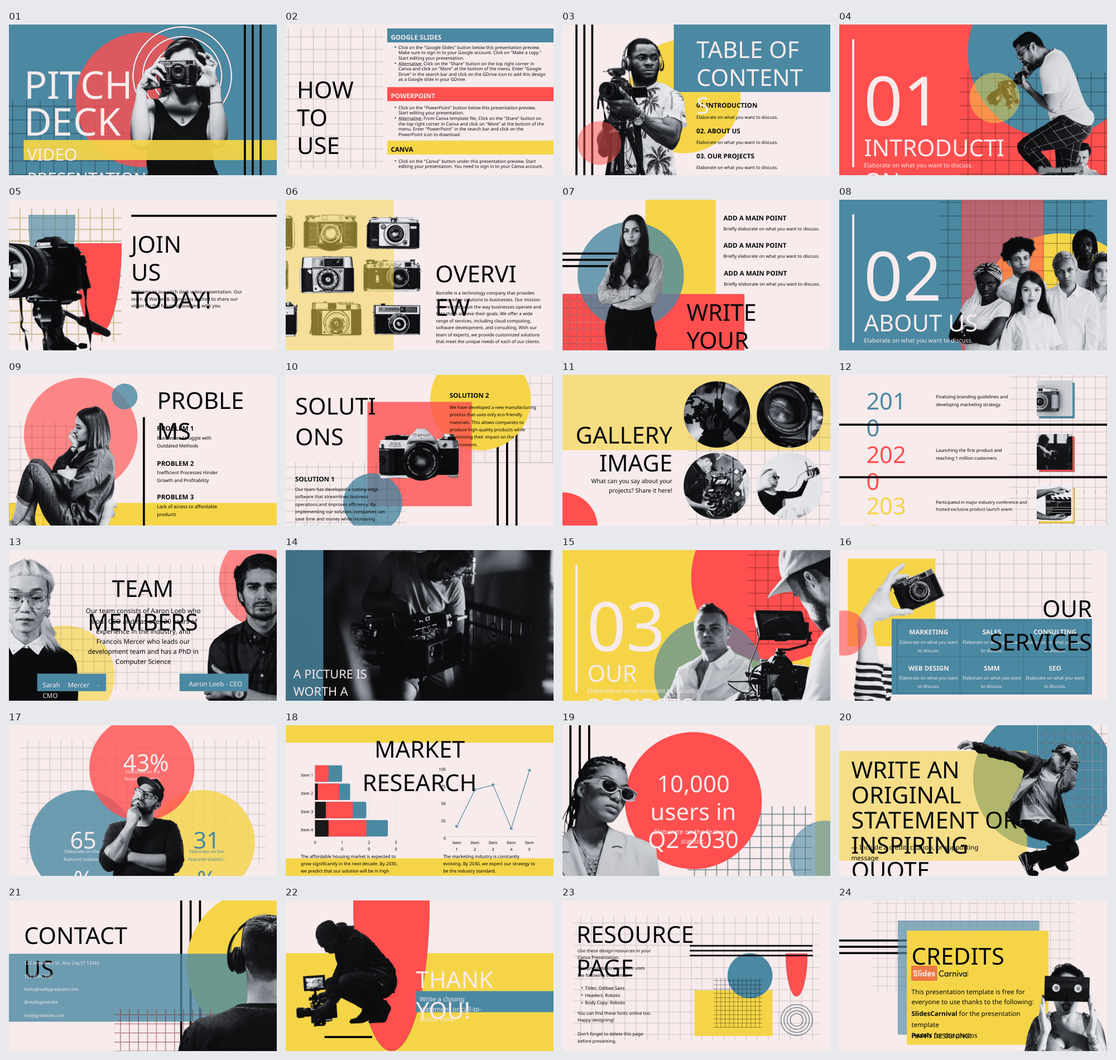
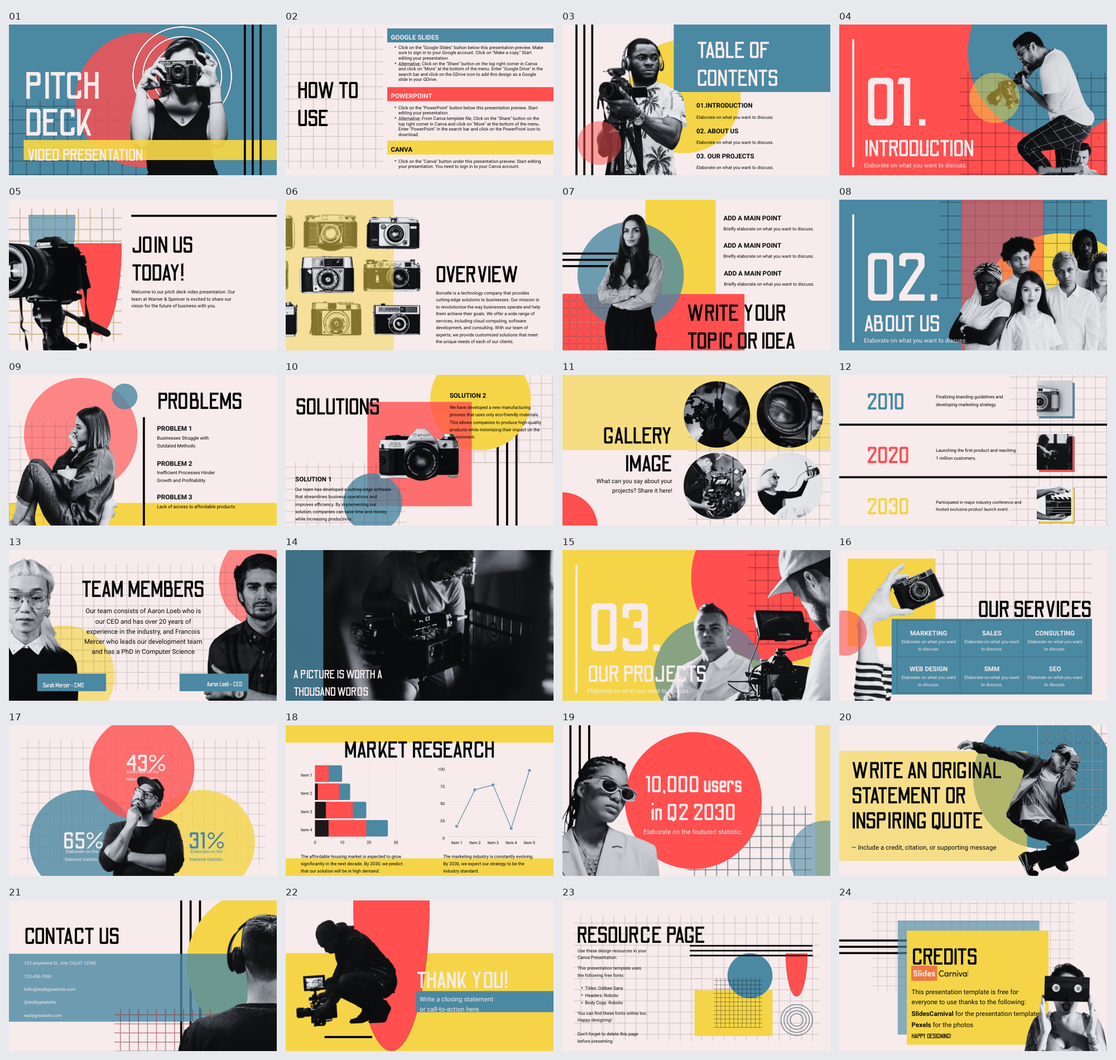
Compare font-corrected human slides with Codex content designs

diff --git a/SlideSkeleton/index.html b/SlideSkeleton/index.html
@@ -3,7 +3,7 @@
 <head>
 <meta charset="utf-8">
 <meta name="viewport" content="width=device-width, initial-scale=1">
-<title>Slide Benchmark · Human 原图与骨架 × AI 骨架</title>
+<title>Slide Benchmark · Human 与 AI 图文设计对比</title>
 <style>
 :root{color-scheme:light;--ink:#202523;--muted:#808783;--line:#e7eae8;--green:#44735c}
 *{box-sizing:border-box}body{margin:0;background:#f4f5f4;color:var(--ink);font:14px/1.5 -apple-system,BlinkMacSystemFont,"Segoe UI","Noto Sans CJK SC",sans-serif}
@@ -26,18 +26,18 @@ dialog{border:1px solid #ddd;border-radius:6px;padding:0;width:min(1500px,94vw);
 <body>
 <div class="shell">
  <header class="masthead">
-  <div><div class="eyebrow">TEMPLATE BENCHMARK</div><h1>Slide Design Comparison</h1><p class="subtitle">上排：Human、Codex 与 API 骨架 · 下排：Human 原图与相同 AI 骨架</p></div>
-  <div class="stats"><div><strong id="style-total"></strong><span>测试风格</span></div><div><strong id="human-total"></strong><span>Human 模板</span></div><div><strong id="model-total"></strong><span>Codex 模板</span></div><div><strong id="api-total"></strong><span>API 模板</span></div></div>
+  <div><div class="eyebrow">TEMPLATE BENCHMARK</div><h1>Slide Design Comparison</h1><p class="subtitle">上排：Human、Codex 与 API 骨架 · 下排：Human 原图与 Codex 同素材图文生成</p></div>
+  <div class="stats"><div><strong id="style-total"></strong><span>测试风格</span></div><div><strong id="human-total"></strong><span>Human 模板</span></div><div><strong id="model-total"></strong><span>Codex 结果</span></div><div><strong id="api-total"></strong><span>API 模板</span></div></div>
  </header>
  <main>
-  <div class="toolbar"><label for="search">查找</label><input id="search" type="search" placeholder="风格名称或编号" autocomplete="off"><label for="style">显示</label><select id="style"><option value="all">全部风格</option></select><span class="hint" id="result-count" aria-live="polite"></span><span class="hint">Human 骨架在上、原图在下 · 点击图片放大细看</span></div>
+  <div class="toolbar"><label for="search">查找</label><input id="search" type="search" placeholder="风格名称或编号" autocomplete="off"><label for="style">显示</label><select id="style"><option value="all">全部风格</option></select><span class="hint" id="result-count" aria-live="polite"></span><span class="hint">上排骨架，下排图文设计 · 点击图片放大细看</span></div>
   <div class="comparison"><div class="rows" id="rows"></div></div><div class="empty" id="empty" hidden>没有匹配的风格，请调整筛选条件。</div>
  </main>
- <footer class="bottom"><span>列顺序：Human 02 → Human 01 → Codex → API；上排骨架，下排 Human 原图；两排右侧均为 AI 骨架</span><span>最后两列为 AI 骨架；API 每套 24 页，Codex 与 Human 01 页数一致。</span></footer>
+ <footer class="bottom"><span>上排：Human 02 → Human 01 → Codex → API；下排：Human 02 原图 → Human 01 新渲染 → Codex 图文生成</span><span>下排 Codex 使用 Human 01 同页文字、图片与风格，不提供整页截图。Human 02 为另一套参考；部分 Human 页面仍有渲染差异。</span></footer>
 </div>
 <dialog id="viewer" aria-labelledby="viewer-title"><div class="modal-bar"><strong id="viewer-title"></strong><span class="modal-tip">点击图片切换原始尺寸 · Esc 关闭</span><button type="button" class="zoom" id="zoom" aria-pressed="false">放大细看</button><a id="viewer-original" target="_blank" rel="noopener">打开总览 PNG ↗</a><button type="button" class="close" id="close">关闭 ×</button></div><div class="modal-body"><img id="viewer-image" alt=""></div></dialog>
 <script>
-const data=[{"id": "01", "style": "大胆撞色", "decks": [{"kind": "human", "pages": 28, "source": "Colorful Geometric Company Founder About Me Creative Presentation · SlidesCarnival", "label": "Human 02 · 骨架", "variant": "skeleton", "image": "01/human_02/overview.png"}, {"kind": "human", "pages": 24, "source": "Multicolored Geometric Modern Pitch Deck Video Business Presentation", "label": "Human 01 · 骨架", "variant": "skeleton", "image": "01/human/overview.png"}, {"label": "Codex · 骨架", "kind": "codex", "variant": "skeleton", "image": "01/generated/overview.png", "pages": 24, "source": "gpt-6-astra"}, {"label": "API · 骨架", "kind": "api", "image": "01/api/overview.png", "pages": 24, "source": "OpenRouter · openai/gpt-6-astra", "variant": "skeleton"}, {"kind": "human", "pages": 28, "source": "Colorful Geometric Company Founder About Me Creative Presentation · SlidesCarnival", "label": "Human 02 · 原图", "variant": "original", "image": "01/human_02/original_overview.png"}, {"kind": "human", "pages": 24, "source": "Multicolored Geometric Modern Pitch Deck Video Business Presentation", "label": "Human 01 · 原图", "variant": "original", "image": "01/human/original_overview.png"}, {"label": "Codex · 骨架", "kind": "codex", "variant": "skeleton", "image": "01/generated/overview.png", "pages": 24, "source": "gpt-6-astra"}, {"label": "API · 骨架", "kind": "api", "image": "01/api/overview.png", "pages": 24, "source": "OpenRouter · openai/gpt-6-astra", "variant": "skeleton"}]}, {"id": "02", "style": "未来科技", "decks": [{"kind": "human", "pages": 18, "source": "Futuristic Engineering Center Modern Presentation", "label": "Human 02 · 骨架", "variant": "skeleton", "image": "02/human_02/overview.png"}, {"kind": "human", "pages": 34, "source": "Black and Blue Tech Theme for Career Day Presentation", "label": "Human 01 · 骨架", "variant": "skeleton", "image": "02/human/overview.png"}, {"label": "Codex · 骨架", "kind": "codex", "variant": "skeleton", "image": "02/generated/overview.png", "pages": 34, "source": "gpt-6-astra"}, {"label": "API · 骨架", "kind": "api", "image": "02/api/overview.png", "pages": 24, "source": "OpenRouter · openai/gpt-6-astra", "variant": "skeleton"}, {"kind": "human", "pages": 18, "source": "Futuristic Engineering Center Modern Presentation", "label": "Human 02 · 原图", "variant": "original", "image": "02/human_02/original_overview.png"}, {"kind": "human", "pages": 34, "source": "Black and Blue Tech Theme for Career Day Presentation", "label": "Human 01 · 原图", "variant": "original", "image": "02/human/original_overview.png"}, {"label": "Codex · 骨架", "kind": "codex", "variant": "skeleton", "image": "02/generated/overview.png", "pages": 34, "source": "gpt-6-astra"}, {"label": "API · 骨架", "kind": "api", "image": "02/api/overview.png", "pages": 24, "source": "OpenRouter · openai/gpt-6-astra", "variant": "skeleton"}]}, {"id": "03", "style": "蓝白商务", "decks": [{"kind": "human", "pages": 26, "source": "Blue and White Corporate Illustrated Blue Connections Presentation", "label": "Human 02 · 骨架", "variant": "skeleton", "image": "03/human_02/overview.png"}, {"kind": "human", "pages": 21, "source": "Blue and White Simple Basic Company Roadmap Presentation", "label": "Human 01 · 骨架", "variant": "skeleton", "image": "03/human/overview.png"}, {"label": "Codex · 骨架", "kind": "codex", "variant": "skeleton", "image": "03/generated/overview.png", "pages": 21, "source": "gpt-6-astra"}, {"label": "API · 骨架", "kind": "api", "image": "03/api/overview.png", "pages": 24, "source": "OpenRouter · openai/gpt-6-astra", "variant": "skeleton"}, {"kind": "human", "pages": 26, "source": "Blue and White Corporate Illustrated Blue Connections Presentation", "label": "Human 02 · 原图", "variant": "original", "image": "03/human_02/original_overview.png"}, {"kind": "human", "pages": 21, "source": "Blue and White Simple Basic Company Roadmap Presentation", "label": "Human 01 · 原图", "variant": "original", "image": "03/human/original_overview.png"}, {"label": "Codex · 骨架", "kind": "codex", "variant": "skeleton", "image": "03/generated/overview.png", "pages": 21, "source": "gpt-6-astra"}, {"label": "API · 骨架", "kind": "api", "image": "03/api/overview.png", "pages": 24, "source": "OpenRouter · openai/gpt-6-astra", "variant": "skeleton"}]}, {"id": "04", "style": "粉色极简", "decks": [{"kind": "human", "pages": 26, "source": "Self Care Green and Pink Newsletter Elegant Minimal Pastel Presentation", "label": "Human 02 · 骨架", "variant": "skeleton", "image": "04/human_02/overview.png"}, {"kind": "human", "pages": 23, "source": "Pink and Gray Modern Minimalistic Aesthetic Beauty Vlogger CV Marketing Presentation", "label": "Human 01 · 骨架", "variant": "skeleton", "image": "04/human/overview.png"}, {"label": "Codex · 骨架", "kind": "codex", "variant": "skeleton", "image": "04/generated/overview.png", "pages": 23, "source": "gpt-6-astra"}, {"label": "API · 骨架", "kind": "api", "image": "04/api/overview.png", "pages": 24, "source": "OpenRouter · openai/gpt-6-astra", "variant": "skeleton"}, {"kind": "human", "pages": 26, "source": "Self Care Green and Pink Newsletter Elegant Minimal Pastel Presentation", "label": "Human 02 · 原图", "variant": "original", "image": "04/human_02/original_overview.png"}, {"kind": "human", "pages": 23, "source": "Pink and Gray Modern Minimalistic Aesthetic Beauty Vlogger CV Marketing Presentation", "label": "Human 01 · 原图", "variant": "original", "image": "04/human/original_overview.png"}, {"label": "Codex · 骨架", "kind": "codex", "variant": "skeleton", "image": "04/generated/overview.png", "pages": 23, "source": "gpt-6-astra"}, {"label": "API · 骨架", "kind": "api", "image": "04/api/overview.png", "pages": 24, "source": "OpenRouter · openai/gpt-6-astra", "variant": "skeleton"}]}, {"id": "05", "style": "黑白极简", "decks": [{"kind": "human", "pages": 22, "source": "Minimalist Grayscale Pitch Deck Presentation", "label": "Human 02 · 骨架", "variant": "skeleton", "image": "05/human_02/overview.png"}, {"kind": "human", "pages": 25, "source": "Black And White Minimal Architecture Portfolio Presentation", "label": "Human 01 · 骨架", "variant": "skeleton", "image": "05/human/overview.png"}, {"label": "Codex · 骨架", "kind": "codex", "variant": "skeleton", "image": "05/generated/overview.png", "pages": 25, "source": "gpt-6-astra"}, {"label": "API · 骨架", "kind": "api", "image": "05/api/overview.png", "pages": 24, "source": "OpenRouter · openai/gpt-6-astra", "variant": "skeleton"}, {"kind": "human", "pages": 22, "source": "Minimalist Grayscale Pitch Deck Presentation", "label": "Human 02 · 原图", "variant": "original", "image": "05/human_02/original_overview.png"}, {"kind": "human", "pages": 25, "source": "Black And White Minimal Architecture Portfolio Presentation", "label": "Human 01 · 原图", "variant": "original", "image": "05/human/original_overview.png"}, {"label": "Codex · 骨架", "kind": "codex", "variant": "skeleton", "image": "05/generated/overview.png", "pages": 25, "source": "gpt-6-astra"}, {"label": "API · 骨架", "kind": "api", "image": "05/api/overview.png", "pages": 24, "source": "OpenRouter · openai/gpt-6-astra", "variant": "skeleton"}]}, {"id": "06", "style": "霓虹复古", "decks": [{"kind": "human", "pages": 20, "source": "Computer Engineering Technology Presentation ", "label": "Human 02 · 骨架", "variant": "skeleton", "image": "06/human_02/overview.png"}, {"kind": "human", "pages": 17, "source": "Retro Posting Signs Newsletter ", "label": "Human 01 · 骨架", "variant": "skeleton", "image": "06/human/overview.png"}, {"label": "Codex · 骨架", "kind": "codex", "variant": "skeleton", "image": "06/generated/overview.png", "pages": 17, "source": "gpt-6-astra"}, {"label": "API · 骨架", "kind": "api", "image": "06/api/overview.png", "pages": 24, "source": "OpenRouter · openai/gpt-6-astra", "variant": "skeleton"}, {"kind": "human", "pages": 20, "source": "Computer Engineering Technology Presentation ", "label": "Human 02 · 原图", "variant": "original", "image": "06/human_02/original_overview.png"}, {"kind": "human", "pages": 17, "source": "Retro Posting Signs Newsletter ", "label": "Human 01 · 原图", "variant": "original", "image": "06/human/original_overview.png"}, {"label": "Codex · 骨架", "kind": "codex", "variant": "skeleton", "image": "06/generated/overview.png", "pages": 17, "source": "gpt-6-astra"}, {"label": "API · 骨架", "kind": "api", "image": "06/api/overview.png", "pages": 24, "source": "OpenRouter · openai/gpt-6-astra", "variant": "skeleton"}]}, {"id": "07", "style": "自然植物", "decks": [{"kind": "human", "pages": 15, "source": "Green and Pink Nature Watercolor Botanical Garden Spring Field Trip", "label": "Human 02 · 骨架", "variant": "skeleton", "image": "07/human_02/overview.png"}, {"kind": "human", "pages": 28, "source": "Floral Drawings Slides · SlidesCarnival", "label": "Human 01 · 骨架", "variant": "skeleton", "image": "07/human/overview.png"}, {"label": "Codex · 骨架", "kind": "codex", "variant": "skeleton", "image": "07/generated/overview.png", "pages": 28, "source": "gpt-6-astra"}, {"label": "API · 骨架", "kind": "api", "image": "07/api/overview.png", "pages": 24, "source": "OpenRouter · openai/gpt-6-astra", "variant": "skeleton"}, {"kind": "human", "pages": 15, "source": "Green and Pink Nature Watercolor Botanical Garden Spring Field Trip", "label": "Human 02 · 原图", "variant": "original", "image": "07/human_02/original_overview.png"}, {"kind": "human", "pages": 28, "source": "Floral Drawings Slides · SlidesCarnival", "label": "Human 01 · 原图", "variant": "original", "image": "07/human/original_overview.png"}, {"label": "Codex · 骨架", "kind": "codex", "variant": "skeleton", "image": "07/generated/overview.png", "pages": 28, "source": "gpt-6-astra"}, {"label": "API · 骨架", "kind": "api", "image": "07/api/overview.png", "pages": 24, "source": "OpenRouter · openai/gpt-6-astra", "variant": "skeleton"}]}, {"id": "08", "style": "可爱手绘", "decks": [{"kind": "human", "pages": 28, "source": "Colorful Cute Simple Illustrative Doodles Funny About Me Creative Presentation · SlidesCarnival", "label": "Human 02 · 骨架", "variant": "skeleton", "image": "08/human_02/overview.png"}, {"kind": "human", "pages": 28, "source": "Red Blue and Yellow Cute Simple Illustrative Doodles Introducing Myself Creative Presentation · SlidesCarnival", "label": "Human 01 · 骨架", "variant": "skeleton", "image": "08/human/overview.png"}, {"label": "Codex · 骨架", "kind": "codex", "variant": "skeleton", "image": "08/generated/overview.png", "pages": 28, "source": "gpt-6-astra"}, {"label": "API · 骨架", "kind": "api", "image": "08/api/overview.png", "pages": 24, "source": "OpenRouter · openai/gpt-6-astra", "variant": "skeleton"}, {"kind": "human", "pages": 28, "source": "Colorful Cute Simple Illustrative Doodles Funny About Me Creative Presentation · SlidesCarnival", "label": "Human 02 · 原图", "variant": "original", "image": "08/human_02/original_overview.png"}, {"kind": "human", "pages": 28, "source": "Red Blue and Yellow Cute Simple Illustrative Doodles Introducing Myself Creative Presentation · SlidesCarnival", "label": "Human 01 · 原图", "variant": "original", "image": "08/human/original_overview.png"}, {"label": "Codex · 骨架", "kind": "codex", "variant": "skeleton", "image": "08/generated/overview.png", "pages": 28, "source": "gpt-6-astra"}, {"label": "API · 骨架", "kind": "api", "image": "08/api/overview.png", "pages": 24, "source": "OpenRouter · openai/gpt-6-astra", "variant": "skeleton"}]}, {"id": "09", "style": "金色优雅", "decks": [{"kind": "human", "pages": 25, "source": "Elegant Gold Glamorous 50th Birthday Minitheme", "label": "Human 02 · 骨架", "variant": "skeleton", "image": "09/human_02/overview.png"}, {"kind": "human", "pages": 22, "source": "Gold Elegant Branding Kit Presentation", "label": "Human 01 · 骨架", "variant": "skeleton", "image": "09/human/overview.png"}, {"label": "Codex · 骨架", "kind": "codex", "variant": "skeleton", "image": "09/generated/overview.png", "pages": 22, "source": "gpt-6-astra"}, {"label": "API · 骨架", "kind": "api", "image": "09/api/overview.png", "pages": 24, "source": "OpenRouter · openai/gpt-6-astra", "variant": "skeleton"}, {"kind": "human", "pages": 25, "source": "Elegant Gold Glamorous 50th Birthday Minitheme", "label": "Human 02 · 原图", "variant": "original", "image": "09/human_02/original_overview.png"}, {"kind": "human", "pages": 22, "source": "Gold Elegant Branding Kit Presentation", "label": "Human 01 · 原图", "variant": "original", "image": "09/human/original_overview.png"}, {"label": "Codex · 骨架", "kind": "codex", "variant": "skeleton", "image": "09/generated/overview.png", "pages": 22, "source": "gpt-6-astra"}, {"label": "API · 骨架", "kind": "api", "image": "09/api/overview.png", "pages": 24, "source": "OpenRouter · openai/gpt-6-astra", "variant": "skeleton"}]}, {"id": "10", "style": "几何抽象", "decks": [{"kind": "human", "pages": 21, "source": "Abstract Geometric Brainstorm Presentation", "label": "Human 02 · 骨架", "variant": "skeleton", "image": "10/human_02/overview.png"}, {"kind": "human", "pages": 17, "source": "Geometric History of Graphic Design Slides", "label": "Human 01 · 骨架", "variant": "skeleton", "image": "10/human/overview.png"}, {"label": "Codex · 骨架", "kind": "codex", "variant": "skeleton", "image": "10/generated/overview.png", "pages": 17, "source": "gpt-6-astra"}, {"label": "API · 骨架", "kind": "api", "image": "10/api/overview.png", "pages": 24, "source": "OpenRouter · openai/gpt-6-astra", "variant": "skeleton"}, {"kind": "human", "pages": 21, "source": "Abstract Geometric Brainstorm Presentation", "label": "Human 02 · 原图", "variant": "original", "image": "10/human_02/original_overview.png"}, {"kind": "human", "pages": 17, "source": "Geometric History of Graphic Design Slides", "label": "Human 01 · 原图", "variant": "original", "image": "10/human/original_overview.png"}, {"label": "Codex · 骨架", "kind": "codex", "variant": "skeleton", "image": "10/generated/overview.png", "pages": 17, "source": "gpt-6-astra"}, {"label": "API · 骨架", "kind": "api", "image": "10/api/overview.png", "pages": 24, "source": "OpenRouter · openai/gpt-6-astra", "variant": "skeleton"}]}];
+const data=[{"id": "01", "style": "大胆撞色", "decks": [{"kind": "human", "pages": 28, "source": "Colorful Geometric Company Founder About Me Creative Presentation · SlidesCarnival", "label": "Human 02 · 骨架", "variant": "skeleton", "image": "01/human_02/overview.png"}, {"kind": "human", "pages": 24, "source": "Multicolored Geometric Modern Pitch Deck Video Business Presentation", "label": "Human 01 · 骨架", "variant": "skeleton", "image": "01/human/overview.png"}, {"label": "Codex · 骨架", "kind": "codex", "variant": "skeleton", "image": "01/generated/overview.png", "pages": 24, "source": "gpt-6-astra"}, {"label": "API · 骨架", "kind": "api", "image": "01/api/overview.png", "pages": 24, "source": "OpenRouter · openai/gpt-6-astra", "variant": "skeleton"}, {"kind": "human", "pages": 28, "source": "Colorful Geometric Company Founder About Me Creative Presentation · SlidesCarnival", "label": "Human 02 · 原图", "variant": "original", "image": "01/human_02/original_overview.png"}, {"kind": "human", "pages": 24, "source": "补齐原稿字体后渲染 · Multicolored Geometric Modern Pitch Deck Video Business Presentation", "label": "Human 01 · 原图", "variant": "original", "image": "01/human/original_overview.png"}, {"label": "Codex · 图文生成", "kind": "codex", "variant": "generated", "image": "01/content_codex/overview.png", "pages": 24, "source": "gpt-6-astra · Human 01 同页文字、图片与整套风格"}]}, {"id": "02", "style": "未来科技", "decks": [{"kind": "human", "pages": 18, "source": "Futuristic Engineering Center Modern Presentation", "label": "Human 02 · 骨架", "variant": "skeleton", "image": "02/human_02/overview.png"}, {"kind": "human", "pages": 34, "source": "Black and Blue Tech Theme for Career Day Presentation", "label": "Human 01 · 骨架", "variant": "skeleton", "image": "02/human/overview.png"}, {"label": "Codex · 骨架", "kind": "codex", "variant": "skeleton", "image": "02/generated/overview.png", "pages": 34, "source": "gpt-6-astra"}, {"label": "API · 骨架", "kind": "api", "image": "02/api/overview.png", "pages": 24, "source": "OpenRouter · openai/gpt-6-astra", "variant": "skeleton"}, {"kind": "human", "pages": 18, "source": "Futuristic Engineering Center Modern Presentation", "label": "Human 02 · 原图", "variant": "original", "image": "02/human_02/original_overview.png"}, {"kind": "human", "pages": 34, "source": "补齐原稿字体后渲染 · Black and Blue Tech Theme for Career Day Presentation", "label": "Human 01 · 原图", "variant": "original", "image": "02/human/original_overview.png"}, {"label": "Codex · 图文生成", "kind": "codex", "variant": "generated", "image": "02/content_codex/overview.png", "pages": 34, "source": "gpt-6-astra · Human 01 同页文字、图片与整套风格"}]}, {"id": "03", "style": "蓝白商务", "decks": [{"kind": "human", "pages": 26, "source": "Blue and White Corporate Illustrated Blue Connections Presentation", "label": "Human 02 · 骨架", "variant": "skeleton", "image": "03/human_02/overview.png"}, {"kind": "human", "pages": 21, "source": "Blue and White Simple Basic Company Roadmap Presentation", "label": "Human 01 · 骨架", "variant": "skeleton", "image": "03/human/overview.png"}, {"label": "Codex · 骨架", "kind": "codex", "variant": "skeleton", "image": "03/generated/overview.png", "pages": 21, "source": "gpt-6-astra"}, {"label": "API · 骨架", "kind": "api", "image": "03/api/overview.png", "pages": 24, "source": "OpenRouter · openai/gpt-6-astra", "variant": "skeleton"}, {"kind": "human", "pages": 26, "source": "Blue and White Corporate Illustrated Blue Connections Presentation", "label": "Human 02 · 原图", "variant": "original", "image": "03/human_02/original_overview.png"}, {"kind": "human", "pages": 21, "source": "补齐原稿字体后渲染 · Blue and White Simple Basic Company Roadmap Presentation", "label": "Human 01 · 原图", "variant": "original", "image": "03/human/original_overview.png"}, {"label": "Codex · 图文生成", "kind": "codex", "variant": "generated", "image": "03/content_codex/overview.png", "pages": 21, "source": "gpt-6-astra · Human 01 同页文字、图片与整套风格"}]}, {"id": "04", "style": "粉色极简", "decks": [{"kind": "human", "pages": 26, "source": "Self Care Green and Pink Newsletter Elegant Minimal Pastel Presentation", "label": "Human 02 · 骨架", "variant": "skeleton", "image": "04/human_02/overview.png"}, {"kind": "human", "pages": 23, "source": "Pink and Gray Modern Minimalistic Aesthetic Beauty Vlogger CV Marketing Presentation", "label": "Human 01 · 骨架", "variant": "skeleton", "image": "04/human/overview.png"}, {"label": "Codex · 骨架", "kind": "codex", "variant": "skeleton", "image": "04/generated/overview.png", "pages": 23, "source": "gpt-6-astra"}, {"label": "API · 骨架", "kind": "api", "image": "04/api/overview.png", "pages": 24, "source": "OpenRouter · openai/gpt-6-astra", "variant": "skeleton"}, {"kind": "human", "pages": 26, "source": "Self Care Green and Pink Newsletter Elegant Minimal Pastel Presentation", "label": "Human 02 · 原图", "variant": "original", "image": "04/human_02/original_overview.png"}, {"kind": "human", "pages": 23, "source": "补齐原稿字体后渲染 · Pink and Gray Modern Minimalistic Aesthetic Beauty Vlogger CV Marketing Presentation", "label": "Human 01 · 原图", "variant": "original", "image": "04/human/original_overview.png"}, {"label": "Codex · 图文生成", "kind": "codex", "variant": "generated", "image": "04/content_codex/overview.png", "pages": 23, "source": "gpt-6-astra · Human 01 同页文字、图片与整套风格"}]}, {"id": "05", "style": "黑白极简", "decks": [{"kind": "human", "pages": 22, "source": "Minimalist Grayscale Pitch Deck Presentation", "label": "Human 02 · 骨架", "variant": "skeleton", "image": "05/human_02/overview.png"}, {"kind": "human", "pages": 25, "source": "Black And White Minimal Architecture Portfolio Presentation", "label": "Human 01 · 骨架", "variant": "skeleton", "image": "05/human/overview.png"}, {"label": "Codex · 骨架", "kind": "codex", "variant": "skeleton", "image": "05/generated/overview.png", "pages": 25, "source": "gpt-6-astra"}, {"label": "API · 骨架", "kind": "api", "image": "05/api/overview.png", "pages": 24, "source": "OpenRouter · openai/gpt-6-astra", "variant": "skeleton"}, {"kind": "human", "pages": 22, "source": "Minimalist Grayscale Pitch Deck Presentation", "label": "Human 02 · 原图", "variant": "original", "image": "05/human_02/original_overview.png"}, {"kind": "human", "pages": 25, "source": "补齐原稿字体后渲染 · Black And White Minimal Architecture Portfolio Presentation", "label": "Human 01 · 原图", "variant": "original", "image": "05/human/original_overview.png"}, {"label": "Codex · 图文生成", "kind": "codex", "variant": "generated", "image": "05/content_codex/overview.png", "pages": 25, "source": "gpt-6-astra · Human 01 同页文字、图片与整套风格"}]}, {"id": "06", "style": "霓虹复古", "decks": [{"kind": "human", "pages": 20, "source": "Computer Engineering Technology Presentation ", "label": "Human 02 · 骨架", "variant": "skeleton", "image": "06/human_02/overview.png"}, {"kind": "human", "pages": 17, "source": "Retro Posting Signs Newsletter ", "label": "Human 01 · 骨架", "variant": "skeleton", "image": "06/human/overview.png"}, {"label": "Codex · 骨架", "kind": "codex", "variant": "skeleton", "image": "06/generated/overview.png", "pages": 17, "source": "gpt-6-astra"}, {"label": "API · 骨架", "kind": "api", "image": "06/api/overview.png", "pages": 24, "source": "OpenRouter · openai/gpt-6-astra", "variant": "skeleton"}, {"kind": "human", "pages": 20, "source": "Computer Engineering Technology Presentation ", "label": "Human 02 · 原图", "variant": "original", "image": "06/human_02/original_overview.png"}, {"kind": "human", "pages": 17, "source": "补齐原稿字体后渲染 · Retro Posting Signs Newsletter ", "label": "Human 01 · 原图", "variant": "original", "image": "06/human/original_overview.png"}, {"label": "Codex · 图文生成", "kind": "codex", "variant": "generated", "image": "06/content_codex/overview.png", "pages": 17, "source": "gpt-6-astra · Human 01 同页文字、图片与整套风格"}]}, {"id": "07", "style": "自然植物", "decks": [{"kind": "human", "pages": 15, "source": "Green and Pink Nature Watercolor Botanical Garden Spring Field Trip", "label": "Human 02 · 骨架", "variant": "skeleton", "image": "07/human_02/overview.png"}, {"kind": "human", "pages": 28, "source": "Floral Drawings Slides · SlidesCarnival", "label": "Human 01 · 骨架", "variant": "skeleton", "image": "07/human/overview.png"}, {"label": "Codex · 骨架", "kind": "codex", "variant": "skeleton", "image": "07/generated/overview.png", "pages": 28, "source": "gpt-6-astra"}, {"label": "API · 骨架", "kind": "api", "image": "07/api/overview.png", "pages": 24, "source": "OpenRouter · openai/gpt-6-astra", "variant": "skeleton"}, {"kind": "human", "pages": 15, "source": "Green and Pink Nature Watercolor Botanical Garden Spring Field Trip", "label": "Human 02 · 原图", "variant": "original", "image": "07/human_02/original_overview.png"}, {"kind": "human", "pages": 28, "source": "补齐原稿字体后渲染 · Floral Drawings Slides · SlidesCarnival", "label": "Human 01 · 原图", "variant": "original", "image": "07/human/original_overview.png"}, {"label": "Codex · 图文生成", "kind": "codex", "variant": "generated", "image": "07/content_codex/overview.png", "pages": 28, "source": "gpt-6-astra · Human 01 同页文字、图片与整套风格"}]}, {"id": "08", "style": "可爱手绘", "decks": [{"kind": "human", "pages": 28, "source": "Colorful Cute Simple Illustrative Doodles Funny About Me Creative Presentation · SlidesCarnival", "label": "Human 02 · 骨架", "variant": "skeleton", "image": "08/human_02/overview.png"}, {"kind": "human", "pages": 28, "source": "Red Blue and Yellow Cute Simple Illustrative Doodles Introducing Myself Creative Presentation · SlidesCarnival", "label": "Human 01 · 骨架", "variant": "skeleton", "image": "08/human/overview.png"}, {"label": "Codex · 骨架", "kind": "codex", "variant": "skeleton", "image": "08/generated/overview.png", "pages": 28, "source": "gpt-6-astra"}, {"label": "API · 骨架", "kind": "api", "image": "08/api/overview.png", "pages": 24, "source": "OpenRouter · openai/gpt-6-astra", "variant": "skeleton"}, {"kind": "human", "pages": 28, "source": "Colorful Cute Simple Illustrative Doodles Funny About Me Creative Presentation · SlidesCarnival", "label": "Human 02 · 原图", "variant": "original", "image": "08/human_02/original_overview.png"}, {"kind": "human", "pages": 28, "source": "补齐原稿字体后渲染 · Red Blue and Yellow Cute Simple Illustrative Doodles Introducing Myself Creative Presentation · SlidesCarnival", "label": "Human 01 · 原图", "variant": "original", "image": "08/human/original_overview.png"}, {"label": "Codex · 图文生成", "kind": "codex", "variant": "generated", "image": "08/content_codex/overview.png", "pages": 28, "source": "gpt-6-astra · Human 01 同页文字、图片与整套风格"}]}, {"id": "09", "style": "金色优雅", "decks": [{"kind": "human", "pages": 25, "source": "Elegant Gold Glamorous 50th Birthday Minitheme", "label": "Human 02 · 骨架", "variant": "skeleton", "image": "09/human_02/overview.png"}, {"kind": "human", "pages": 22, "source": "Gold Elegant Branding Kit Presentation", "label": "Human 01 · 骨架", "variant": "skeleton", "image": "09/human/overview.png"}, {"label": "Codex · 骨架", "kind": "codex", "variant": "skeleton", "image": "09/generated/overview.png", "pages": 22, "source": "gpt-6-astra"}, {"label": "API · 骨架", "kind": "api", "image": "09/api/overview.png", "pages": 24, "source": "OpenRouter · openai/gpt-6-astra", "variant": "skeleton"}, {"kind": "human", "pages": 25, "source": "Elegant Gold Glamorous 50th Birthday Minitheme", "label": "Human 02 · 原图", "variant": "original", "image": "09/human_02/original_overview.png"}, {"kind": "human", "pages": 22, "source": "补齐原稿字体后渲染 · Gold Elegant Branding Kit Presentation", "label": "Human 01 · 原图", "variant": "original", "image": "09/human/original_overview.png"}, {"label": "Codex · 图文生成", "kind": "codex", "variant": "generated", "image": "09/content_codex/overview.png", "pages": 22, "source": "gpt-6-astra · Human 01 同页文字、图片与整套风格"}]}, {"id": "10", "style": "几何抽象", "decks": [{"kind": "human", "pages": 21, "source": "Abstract Geometric Brainstorm Presentation", "label": "Human 02 · 骨架", "variant": "skeleton", "image": "10/human_02/overview.png"}, {"kind": "human", "pages": 17, "source": "Geometric History of Graphic Design Slides", "label": "Human 01 · 骨架", "variant": "skeleton", "image": "10/human/overview.png"}, {"label": "Codex · 骨架", "kind": "codex", "variant": "skeleton", "image": "10/generated/overview.png", "pages": 17, "source": "gpt-6-astra"}, {"label": "API · 骨架", "kind": "api", "image": "10/api/overview.png", "pages": 24, "source": "OpenRouter · openai/gpt-6-astra", "variant": "skeleton"}, {"kind": "human", "pages": 21, "source": "Abstract Geometric Brainstorm Presentation", "label": "Human 02 · 原图", "variant": "original", "image": "10/human_02/original_overview.png"}, {"kind": "human", "pages": 17, "source": "补齐原稿字体后渲染 · Geometric History of Graphic Design Slides", "label": "Human 01 · 原图", "variant": "original", "image": "10/human/original_overview.png"}, {"label": "Codex · 图文生成", "kind": "codex", "variant": "generated", "image": "10/content_codex/overview.png", "pages": 17, "source": "gpt-6-astra · Human 01 同页文字、图片与整套风格"}]}];
 const $=id=>document.getElementById(id);
 const escapeHTML=value=>String(value).replace(/[&<>"']/g,c=>({'&':'&amp;','<':'&lt;','>':'&gt;','"':'&quot;',"'":'&#39;'}[c]));
 $('style-total').textContent=data.length;
@@ -46,7 +46,7 @@ $('human-total').textContent=decks.filter(deck=>deck.kind==='human'&&deck.varian
 $('model-total').textContent=new Set(decks.filter(deck=>deck.kind==='codex').map(deck=>deck.image)).size;
 $('api-total').textContent=new Set(decks.filter(deck=>deck.kind==='api').map(deck=>deck.image)).size;
 for(const row of data){const option=document.createElement('option');option.value=row.id;option.textContent=`${row.id} ${row.style}`;$('style').append(option)}
-$('rows').innerHTML=data.map(row=>`<section class="style-row" data-id="${row.id}" aria-labelledby="style-${row.id}"><div class="row-heading"><span class="row-id">STYLE ${row.id}</span><h2 id="style-${row.id}">${escapeHTML(row.style)}</h2><span class="row-note">2 HUMAN × 骨架／原图 + 2 AI 骨架</span></div><div class="grid">${row.decks.map((deck,i)=>`<article class="deck" data-variant="${deck.variant}"><h3 class="deck-heading"><span class="deck-name">${escapeHTML(deck.label.split(" · ")[0])}</span><span class="deck-variant">${deck.variant==='original'?'原图':'骨架'}</span><span class="heading-pages">${deck.pages} 页</span>${deck.kind==='codex'?'<span class="model-tag">CODEX</span>':deck.kind==='api'?'<span class="model-tag">OPENROUTER</span>':''}</h3><button class="preview" data-row="${row.id}" data-deck="${i}" aria-label="放大 ${escapeHTML(row.style)} ${deck.label} 总览"><img src="${deck.image}" alt="${escapeHTML(row.style)} · ${deck.label} · ${deck.pages} 页总览" loading="${row.id==='01'?'eager':'lazy'}" decoding="async"></button><p class="source" title="${escapeHTML(deck.source)}">${escapeHTML(deck.source)}</p><div class="deck-footer"><span class="page-count"><span class="dot"></span>${deck.pages} 页</span><a href="${deck.image}" target="_blank" rel="noopener">PNG ↗</a>${deck.pdf?`<a href="${deck.pdf}" target="_blank" rel="noopener">PDF ↗</a>`:''}${deck.pptx?`<a href="${deck.pptx}" download>PPTX ↓</a>`:''}</div></article>`).join('')}</div></section>`).join('');
+$('rows').innerHTML=data.map(row=>`<section class="style-row" data-id="${row.id}" aria-labelledby="style-${row.id}"><div class="row-heading"><span class="row-id">STYLE ${row.id}</span><h2 id="style-${row.id}">${escapeHTML(row.style)}</h2><span class="row-note">骨架对照 + Human 01 / Codex 同素材图文对照</span></div><div class="grid">${row.decks.map((deck,i)=>`<article class="deck" data-variant="${deck.variant}"><h3 class="deck-heading"><span class="deck-name">${escapeHTML(deck.label.split(" · ")[0])}</span><span class="deck-variant">${deck.variant==='original'?'原图':deck.variant==='generated'?'图文生成':'骨架'}</span><span class="heading-pages">${deck.pages} 页</span>${deck.kind==='codex'?'<span class="model-tag">CODEX</span>':deck.kind==='api'?'<span class="model-tag">OPENROUTER</span>':''}</h3><button class="preview" data-row="${row.id}" data-deck="${i}" aria-label="放大 ${escapeHTML(row.style)} ${deck.label} 总览"><img src="${deck.image}" alt="${escapeHTML(row.style)} · ${deck.label} · ${deck.pages} 页总览" loading="${row.id==='01'?'eager':'lazy'}" decoding="async"></button><p class="source" title="${escapeHTML(deck.source)}">${escapeHTML(deck.source)}</p><div class="deck-footer"><span class="page-count"><span class="dot"></span>${deck.pages} 页</span><a href="${deck.image}" target="_blank" rel="noopener">PNG ↗</a>${deck.pdf?`<a href="${deck.pdf}" target="_blank" rel="noopener">PDF ↗</a>`:''}${deck.pptx?`<a href="${deck.pptx}" download>PPTX ↓</a>`:''}</div></article>`).join('')}</div></section>`).join('');
 function filter(){const term=$('search').value.trim().toLowerCase(),style=$('style').value;let count=0;for(const row of data){const visible=(style==='all'||row.id===style)&&`${row.id} ${row.style}`.toLowerCase().includes(term);document.querySelector(`[data-id="${row.id}"]`).hidden=!visible;if(visible)count++}$('empty').hidden=count!==0;$('result-count').textContent=`${count} / ${data.length} 种风格`}
 $('search').addEventListener('input',filter);$('style').addEventListener('change',filter);filter();
 $('rows').addEventListener('click',event=>{const button=event.target.closest('.preview');if(!button)return;const row=data.find(r=>r.id===button.dataset.row),deck=row.decks[Number(button.dataset.deck)];$('viewer-title').textContent=`${row.id} ${row.style} / ${deck.label} · ${deck.pages} 页`;$('viewer-image').src=deck.image;$('viewer-image').alt=`${row.style} ${deck.label} 总览`;$('viewer-image').classList.remove('full');$('zoom').textContent='放大细看';$('zoom').setAttribute('aria-pressed','false');$('viewer-original').href=deck.image;$('viewer').showModal();document.querySelector('.modal-body').scrollTo(0,0)});
